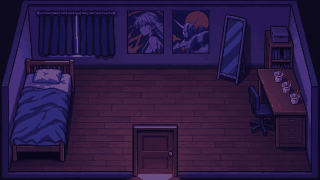
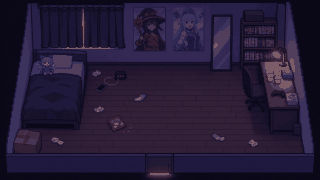
Story act 1: new bedroom painting, floor clutter and cycling desk hotspots, new opening panel
Claude-Session: https://claude.ai/code/session_012DDu5GJj4p4T6pAh3isAat

diff --git a/src/story/acts/bedroom.ts b/src/story/acts/bedroom.ts
@@ -5,9 +5,10 @@ import type { RoomScene } from "../script";
  * Act 1, "The mundane cage": the bedroom. Teaches walking and examining, and ends when the old
  * computer under the bed is switched on.
  *
- * The layout is traced over the painting in 8-pixel cells: # wall, W curtains, P posters,
- * M mirror, S bookshelf, B bed, b the gap under its foot, N the desk with the noodle cups,
- * D chair and drawers, = door.
+ * The layout is traced over the painting in 8-pixel cells. Solid: # wall, W curtains, P and Q
+ * the two posters, M mirror, S bookshelf, B bed, F the plush on it, b the gap under the bed,
+ * N desk, D chair and bin, X cardboard box, = door. Walked over: t tissues, s socks, p phone,
+ * c crisps, a alarm clock.
  */
 export const BEDROOM: RoomScene = {
   id: "bedroom",
@@ -21,22 +22,23 @@ export const BEDROOM: RoomScene = {
     "########################################",
     "########################################",
     "########################################",
-    "#########WWWWWW#PPPPPPPPPP#MMMMSSSSSS###",
-    "#BBBBBBBB..................MMMM..NNNNNN#",
-    "#BBBBBBBB..................MMMM..NNNNNN#",
-    "#BBBBBBBB........................NNNNNN#",
-    "#BBBBBBBB......................DDDNNNNN#",
-    "#BBBBBBBB...........@..........DDDNNNNN#",
-    "#BBBBBBBB......................DDDNNNNN#",
-    "#BBBBBBBB......................DDDDDDDD#",
-    "#BBBBBBBB......................DDDDDDDD#",
-    "#BBBBBBBB........======........DDDDDDDD#",
-    "#BBBBBBBB........======...........DDDDD#",
-    "#bbbbbbbb........======...........DDDDD#",
-    "#bbbbbbbb........======................#",
-    "#................======................#",
+    "###########WWWWW#PPPP#QQQQMMMSSSS#######",
+    "##BBBBBBBFF.tt...................NNNNN##",
+    "##BBBBBBBFF...aa...............DDNNNNN##",
+    "##BBBBBBBFF.pp.................DDNNNNN##",
+    "##BBBBBBBBB......ss............DDNNNNN##",
+    "##BBBBBBBBB...........@........DDNNNNN##",
+    "##BBBBBBBBB.tt.................DDNNNNN##",
+    "##BBBBBBBBB...cc.................NNNNN##",
+    "##bbbbbbbbb...cc.................NNNNN##",
+    "##XXXX.....................ss.......DD##",
+    "##XXXX.tt......................tt.....##",
+    "##XXXX................................##",
+    "##################====##################",
+    "########################################",
     "########################################",
   ],
+  walkOver: "tspca",
   opening: {
     art: STORY_ART.comic1,
     lines: [
@@ -60,6 +62,36 @@ export const BEDROOM: RoomScene = {
   goal: "调查床底",
   hotspots: [
     {
+      id: "megumin",
+      symbol: "P",
+      label: "惠惠的海报",
+      lines: [
+        { who: "zero", mood: "sincere", text: "吾之师。一日一发，绝不妥协。" },
+        { who: "narrator", text: "他试过在房间里咏唱。隔壁敲了墙。" },
+      ],
+    },
+    {
+      id: "aqua",
+      symbol: "Q",
+      label: "阿库娅的海报",
+      lines: [
+        { who: "zero", mood: "smug", text: "没用的女神啊。吾若转生，绝不选你。" },
+        { who: "aqua", text: "バーカ。" },
+        { who: "zero", mood: "flustered", text: "……！？" },
+        { who: "narrator", text: "海报不会说话。大概。" },
+      ],
+    },
+    {
+      id: "cirno",
+      symbol: "F",
+      label: "琪露诺 fumo",
+      lines: [
+        { who: "zero", mood: "sincere", text: "冰之妖精……吾麾下最强的使魔。" },
+        { who: "cirno", text: "baka！" },
+        { who: "narrator", text: "玩偶没有发声装置。他检查过九次。" },
+      ],
+    },
+    {
       id: "mirror",
       symbol: "M",
       label: "镜子",
@@ -78,16 +110,98 @@ export const BEDROOM: RoomScene = {
       ],
     },
     {
-      id: "noodles",
+      id: "desk",
       symbol: "N",
-      label: "泡面",
-      lines: [{ who: "zero", mood: "smug", text: "三具空壳。这就是吾战斗过的证明。" }],
+      label: "书桌",
+      lines: [],
+      cycle: [
+        {
+          label: "泡面",
+          lines: [{ who: "zero", mood: "smug", text: "四具空壳。这就是吾战斗过的证明。" }],
+        },
+        {
+          label: "抽纸",
+          lines: [
+            { who: "zero", mood: "smug", text: "圣遗物，「千之白羽」。" },
+            { who: "narrator", text: "抽纸。超市买二送一。" },
+          ],
+        },
+        {
+          label: "手柄",
+          lines: [
+            { who: "zero", mood: "smug", text: "吾之双手，记得一万场战斗。" },
+            { who: "narrator", text: "左摇杆漂移。他坚称这是风格。" },
+          ],
+        },
+        {
+          label: "漫画",
+          lines: [
+            { who: "zero", mood: "smug", text: "禁书。凡人翻阅会失去理智。" },
+            { who: "narrator", text: "第七卷被借走两年了。他没有开口要回来。" },
+          ],
+        },
+        {
+          label: "台灯",
+          lines: [
+            { who: "zero", mood: "flustered", text: "这间屋子里唯一的光。……是吾允许它亮着的。" },
+            { who: "narrator", text: "他怕黑。" },
+          ],
+        },
+      ],
     },
     {
-      id: "poster",
-      symbol: "P",
-      label: "海报",
-      lines: [{ who: "zero", mood: "sincere", text: "总有一天，吾也会被卡车选中的。" }],
+      id: "tissues",
+      symbol: "t",
+      label: "纸团",
+      lines: [
+        { who: "zero", mood: "flustered", text: "……这是吾与花粉之邪神交战的痕迹。" },
+        { who: "narrator", text: "他有鼻炎。请不要多想。" },
+      ],
+    },
+    {
+      id: "socks",
+      symbol: "s",
+      label: "袜子",
+      lines: [
+        { who: "zero", mood: "sincere", text: "失散的左翼与右翼。它们已经很久没有相见了。" },
+        { who: "narrator", text: "相距四米。" },
+      ],
+    },
+    {
+      id: "crisps",
+      symbol: "c",
+      label: "薯片",
+      lines: [
+        { who: "zero", mood: "smug", text: "供奉给深渊的祭品。" },
+        { who: "narrator", text: "过期两周。他昨天还吃了。" },
+      ],
+    },
+    {
+      id: "phone",
+      symbol: "p",
+      label: "手机",
+      lines: [
+        { who: "zero", mood: "smug", text: "零条新消息。很好，吾不需要羁绊。" },
+        { who: "narrator", text: "这是他今天第十四次确认这一点。" },
+      ],
+    },
+    {
+      id: "clock",
+      symbol: "a",
+      label: "闹钟",
+      lines: [
+        { who: "zero", mood: "smug", text: "时间……不过是凡人给自己套上的枷锁。" },
+        { who: "narrator", text: "闹钟设在早上七点。从来没有成功过。" },
+      ],
+    },
+    {
+      id: "box",
+      symbol: "X",
+      label: "纸箱",
+      lines: [
+        { who: "zero", mood: "sincere", text: "封印之匣。里面沉睡着吾的过去。" },
+        { who: "narrator", text: "小学的奖状，和一支竖笛。" },
+      ],
     },
     {
       id: "window",

diff --git a/src/story/script.ts b/src/story/script.ts
@@ -1,7 +1,7 @@
 import type { Mood } from "./assets";
 
 /** Who a line belongs to. `narrator` and `system` have no portrait; `door` is a voice from off screen. */
-export type Speaker = "zero" | "door" | "narrator" | "system";
+export type Speaker = "zero" | "door" | "narrator" | "system" | "aqua" | "cirno";
 
 /** One step of a conversation: a spoken line, or a choice between replies. */
 export type Line =
@@ -21,6 +21,11 @@ export interface Hotspot {
   /** Shown in the prompt while the player faces it. */
   label: string;
   lines: readonly Line[];
+  /**
+   * Several things in one place, such as the clutter on a desk: each visit examines the next
+   * one, in a loop, and `label` and `lines` above are not used.
+   */
+  cycle?: readonly { label: string; lines: readonly Line[] }[];
   /** Examining it ends the scene, once its lines are read. */
   ends?: boolean;
 }
@@ -37,6 +42,8 @@ export interface RoomScene {
   /** Pixels per layout cell. */
   cell: number;
   layout: readonly string[];
+  /** Symbols the player can walk across: clutter on the floor, examined while standing on or at it. */
+  walkOver?: string;
   /** A full-screen illustration with lines read over it, before the room appears. */
   opening?: { art: string; lines: readonly Line[] };
   /** Played in the room before the player may move. */
@@ -57,6 +64,8 @@ export const SPEAKER_NAMES: Record<Speaker, string> = {
   door: "门外",
   narrator: "",
   system: "系统",
+  aqua: "阿库娅",
+  cirno: "琪露诺",
 };
 
 /** Size of the 8-bit canvas. */

diff --git a/src/story/story-view.ts b/src/story/story-view.ts
@@ -55,9 +55,13 @@ export function mountStory(screen: HTMLElement, host: StoryHost, actId?: string)
     { zero: ZERO_PORTRAITS },
     { tick: () => host.typeTick(), move: () => host.menu("click"), accept: () => host.menu("accept") },
   );
+  /** How many times each cycling hotspot has been examined. */
+  const visits = new Map<string, number>();
+  const current = (hotspot: Hotspot) =>
+    hotspot.cycle ? hotspot.cycle[(visits.get(hotspot.id) ?? 0) % hotspot.cycle.length] : hotspot;
   const showPrompt = (hotspot: Hotspot | undefined) => {
     prompt.hidden = !hotspot || room.frozen;
-    if (hotspot) prompt.lastElementChild!.textContent = hotspot.label;
+    if (hotspot) prompt.lastElementChild!.textContent = current(hotspot).label;
   };
   const room = openRoom(find<HTMLCanvasElement>(".story-canvas"), scene, (hotspot) => showPrompt(hotspot));
   const flags: Record<string, number> = {};
@@ -86,7 +90,9 @@ export function mountStory(screen: HTMLElement, host: StoryHost, actId?: string)
     showPrompt(room.facing);
   };
   const examine = async (hotspot: Hotspot) => {
-    if (!(await talk(hotspot.lines))) return;
+    const { lines } = current(hotspot);
+    visits.set(hotspot.id, (visits.get(hotspot.id) ?? 0) + 1);
+    if (!(await talk(lines))) return;
     if (!hotspot.ends) return release();
     goal.hidden = true;
     stage.classList.add("booting");

diff --git a/src/story/room.ts b/src/story/room.ts
@@ -56,7 +56,8 @@ export function openRoom(
     left = Math.floor((VIEW.width - rows[0].length * cell) / 2);
   const symbolAt = (x: number, y: number) =>
     rows[Math.floor((y - top) / cell)]?.[Math.floor((x - left) / cell)] ?? "#";
-  const walkable = (x: number, y: number) => ".@".includes(symbolAt(x, y));
+  const open = `.@${scene.walkOver ?? ""}`;
+  const walkable = (x: number, y: number) => open.includes(symbolAt(x, y));
   const fits = (x: number, y: number) =>
     walkable(x - FEET.halfWidth, y) &&
     walkable(x + FEET.halfWidth, y) &&
@@ -114,9 +115,11 @@ export function openRoom(
     const [hx, hz] = HEADING[heading];
     // Sideways the feet are wider than they are deep, so the reach starts from their edge.
     const reach = REACH + (hx ? FEET.halfWidth : 0);
-    const ahead = hotspots.get(
-      symbolAt(zero.pos.x + hx * reach, zero.pos.y - FEET.height / 2 + hz * (reach + FEET.height / 2)),
-    );
+    // What is in front wins over the clutter underfoot.
+    const ahead =
+      hotspots.get(
+        symbolAt(zero.pos.x + hx * reach, zero.pos.y - FEET.height / 2 + hz * (reach + FEET.height / 2)),
+      ) ?? hotspots.get(symbolAt(zero.pos.x, zero.pos.y - FEET.height / 2));
     if (ahead !== facing) onFacing((facing = ahead));
   });
   return room;
